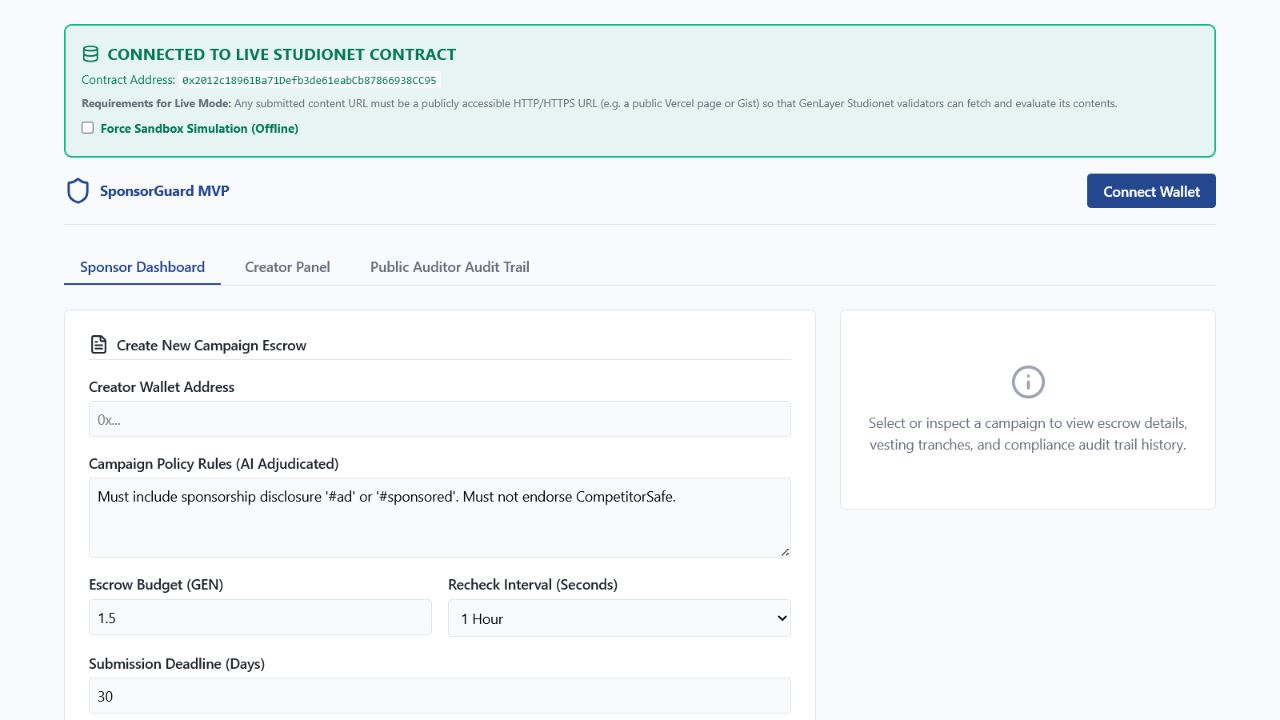
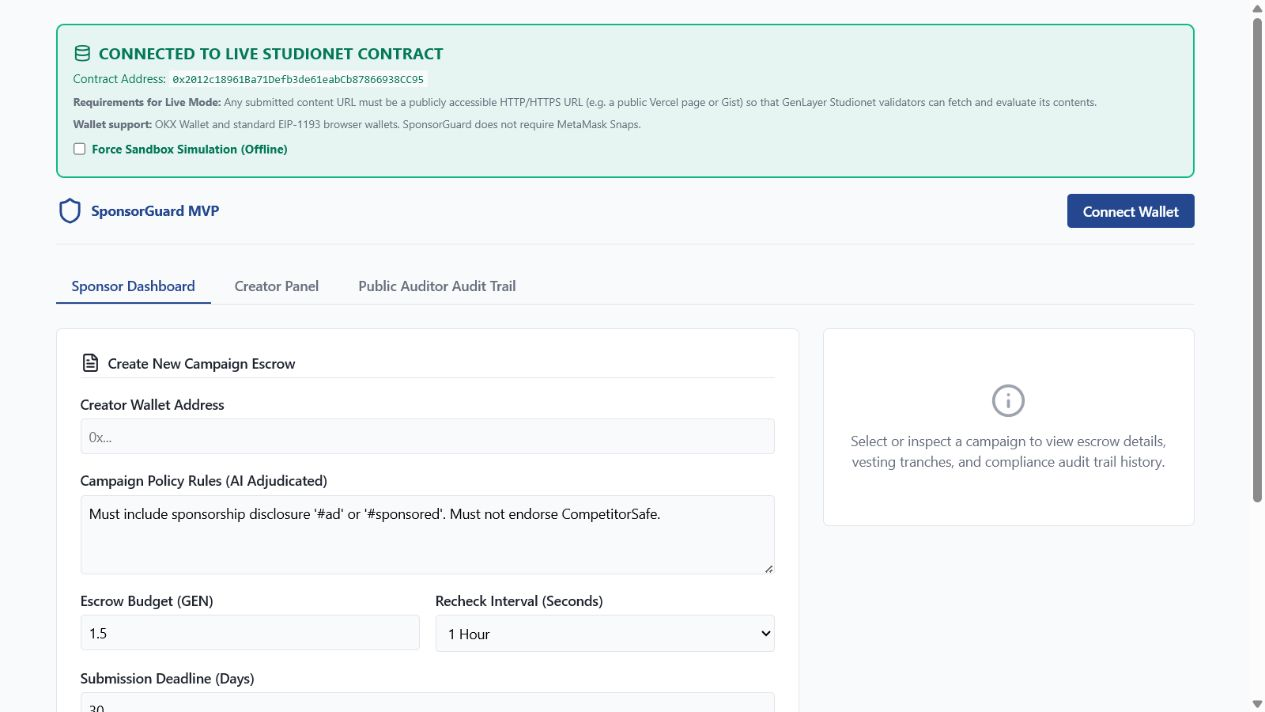
docs: refresh wallet-compatible production evidence

diff --git a/ROADMAP.md b/ROADMAP.md
@@ -18,7 +18,7 @@ The React and TypeScript frontend is connected to the deployed Studionet contrac
 
 - Source repository: [congab91-maker/sponsorguard](https://github.com/congab91-maker/sponsorguard)
 - Live web application: [SponsorGuard on Vercel](https://sponsorguard-buildgenlayer.vercel.app)
-- Reviewer screenshot: [`docs/sponsorguard-live.png`](docs/sponsorguard-live.png), captured from the public live-mode interface after release `d1b98a5`; it is UI evidence, not campaign-transaction evidence.
+- Reviewer screenshot: [`docs/sponsorguard-live.png`](docs/sponsorguard-live.png), captured from the public live-mode interface after wallet-compatibility release `c2ae2d0`; it is UI evidence, not campaign-transaction evidence.
 - Studionet contract: [`0x2012c18961Ba71Defb3de61eabCb87866938CC95`](https://explorer-studio.genlayer.com/address/0x2012c18961Ba71Defb3de61eabCb87866938CC95)
[1 lines of base64/hex data omitted]
 - Network: GenLayer Studionet, chain ID `61999`, using the official Studio RPC documented in [Networks & RPCs](https://docs.genlayer.com/developers/networks)

diff --git a/README.md b/README.md
@@ -15,7 +15,7 @@ The Explorer currently shows only the successful deployment transaction for this
 
 ![SponsorGuard live Studionet interface](docs/sponsorguard-live.png)
 
-_Captured from the public production URL after release `d1b98a5`. The image verifies the deployed interface and configured contract address; it does not claim a completed campaign transaction._
+_Captured from the public production URL after wallet-compatibility release `c2ae2d0`. The image verifies the deployed interface and configured contract address; it does not claim a completed campaign transaction._
 
 ## Trust problem
 
